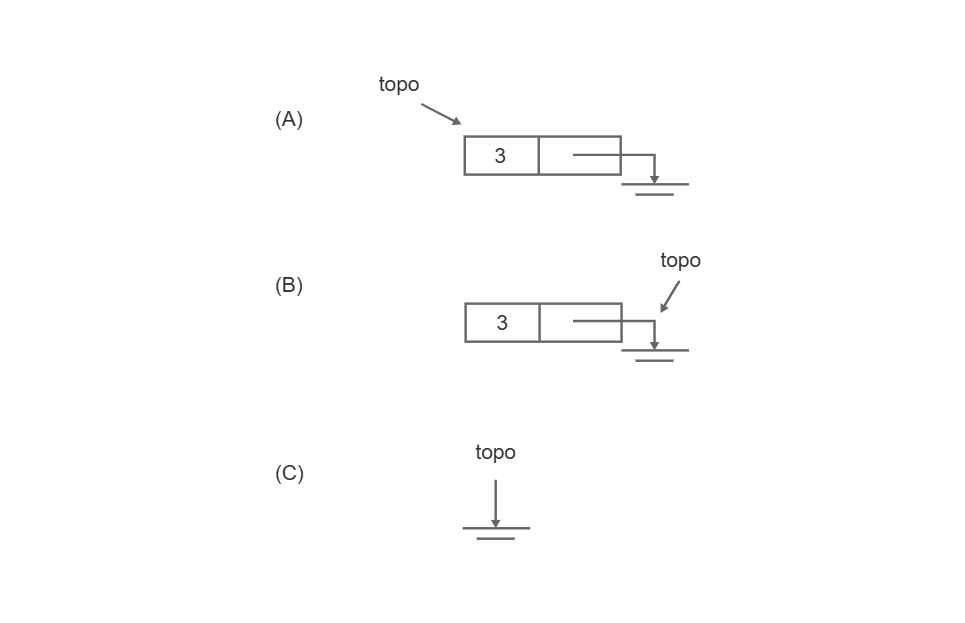
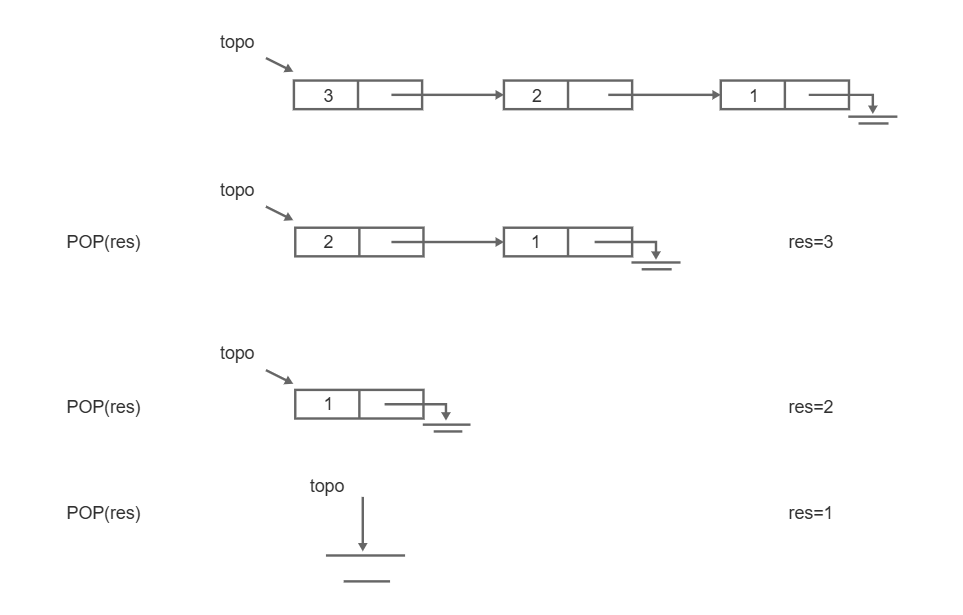
cap-8 [feat][docs] Anotações de Pilha Encadeada

diff --git a/README.md b/README.md
@@ -786,15 +786,197 @@ Supondo a pilha que foi gerada na explicação da operação PUSH (que terminou 
 
 3. Com a liberação da área do nó com dado 3, a configuração final da pilha é que topo aponta para NULO
 
-![alt text](image.png)
+![Esquema de retirada do nó que está no topo com a operação POP() pilha encadeada](img/img21.png)
 
 <p align="right">(<a href="#readme-top">back to top</a>)</p>
 
 ## Implementação em Java da Pilha de Inteiros
 
+```java
+import java.util.*;
+
+public class Pilha_INT {
+
+    //definição do NO
+    private static class NO{
+        public  int dado;
+        public  NO prox;
+    }
+
+    //definição do retornos dos métodos POP e TOP
+    private static class Retorno{
+        public  int item;
+        public  boolean ok;
+    }
+    //definição do ponteiro topo da pilha	
+    private static NO topo;
+
+    public void INIT() {
+        topo = null;
+    }
+
+    public boolean IsEmpty() {
+        return topo == null;
+    }
+
+    public void PUSH(int item) {
+        NO novo = new NO();
+        novo.dado = item;
+        novo.prox = topo;
+        topo = novo;
+    }
+
+    public Retorno POP() {
+        Retorno saida = new Retorno();
+        
+        if(!IsEmpty()) {
+            saida.item = topo.dado;
+            topo = topo.prox;
+            saida.ok = true;
+        } else {
+            saida.ok = false;
+        }
+
+        return saida;
+    }
+
+    public Retorno TOP() {
+        Retorno saida = new Retorno();
+
+        if(!IsEmpty()) {
+            saida.item = topo.dado;
+            saida.ok = true;
+        } else {
+            saida.ok = false;
+        }
+
+        return saida;
+    }
+
+    //Função main que exemplifica a utilização das operações sobre pilha
+    public static void main(String[] args) {
+            
+        Pilha_INT s = new Pilha_INT();
+        Scanner entrada = new Scanner(System.in);
+
+        //Declaração de variáveis necessárias para usar métodos da Pilha_INT
+        int item ;
+        int opcao;
+        Retorno res = new Retorno();
+
+        //inicia a pilha fazendo topo = null
+        s.INIT();	
+        
+        //invoca metodo TOP para obter dado do nó do topo da pilha
+        res = s.TOP();
+        if (res.ok) {
+            System.out.println("Execução do TOP: "+  res.item);
+
+        } else {
+            System.out.println("Execução do TOP: pilha VAZIA");
+        }
+
+        //repetição para inserir elementos na pilha
+        do { 
+            System.out.println("Digite valor inteiro para dado  ");
+            
+            item= entrada.nextInt();
+            
+            s.PUSH(item);
+            
+            System.out.println("Digite 0 para encerrar empilhamento de dados  ");
+            
+            opcao=entrada.nextInt();
+        } while (opcao != 0);
+        
+        //invoca metodo TOP para obter dado do nó do topo da pilha		
+        res = s.TOP();
+
+        if (res.ok) {
+            System.out.println("Execução do TOP: " + res.item);
+        }
+            
+        //repetição para retirar e apresentar todos elementos da pilha	
+        do {
+            res = s.POP();
+        
+            if (res.ok) {
+                System.out.println("Dado retirado: " + res.item);	
+            }
+        } while (res.ok);
+
+        entrada.close();
+    }
+}
+```
+
+Na main() é possível notar que foi necessário declarar algumas variáveis que são necessárias para utilização dos métodos. A única que merece comentário é a *res*, como os métodos TOP() e POP() podem ser invocados quando a pilha está vazia e se isso acontecer não há dado para ser retornado, torna-se preciso que, não apenas o valor do dado retorne, mas também se a operação foi um sucesso ou não. Assim, se  a pilha não está vazia, o dado pode ser retornado e está tudo ok (*true* - é verdade que a operção foi um sucesso). Portanto, o tipo de retorno dos métodos TOP() e POP() foi alterado para o tipo Retorno, pois assim o dado e a situação OK ou não são retornados juntos.
+
+A pilha incia sendo colocada no estado "vazia" usando o método **INIT()**.
+
+Logo após, foi feita a invocação do método **TOP(res)** e como a pilha está vazia é retornado o valor de OK é false, uma vez que não há nó inserido na pilha.
+
+No programa os dados são inseridos na pilha fazendo uso de uma repetição que lê do teclado o valor da variável item e depois invoca o método **PUSH(item)** para inserir novo nó tendo o valor de item como campo dado.
+
+![Esquema de loop para inserção do dado pelo PUSH(I) na pilha encadeada](img/img22.png)
+
+Continuando a execução do programa, mais uma vez é feita a invocação do método **TOP(res)**, só que desta vez a pilha não está vazia. Desta forma, o atributo ok de *res* recebe o valor *true* e assim o valor do dado que está no topo da pilha é apresentado na tela de saída (*res.item*).
+
+Finalmente, o programa termina com a retirada de todos os nós da pilha e apresentação dos dados contidos em cada nó. Para realizar essa etapa, mais uma vez foi utilizado res que recebe do método **POP(res)** os valores para os atributos ok (*true* no caso da pilha não vazia e nó removido e *false* caso contrário) e item que terá apenas valor válido (valor do dado que está no topo da pilha) no caso de ok = true.. Sendo assim, a repetição fará com que POP seja executado até o momento em que a pilha estiver vazia.
+
+![Esquema do loop para remoção de elemento pelo POP() na pilha encadeada](image.png)
+
 <p align="right">(<a href="#readme-top">back to top</a>)</p>
 
 ## Exemplo de Uso do Tipo de Dado Pilha
+
+Suponha o seguinte problema: a conversão de um número representado em decimal em binário. Apenas para recordar como essa conversão é feita, suponha o valor 9 em decimal:
+
+> 13/2 = 6 resto 1
+> 6/2 = 3 resto 0
+> 3/2 = 1 resto 1
+> 1/2 = 0 resto 1
+
+O valor na base 2 é obtido escrevendo o resto na ordem inversa em que foram obtidos, assim, o valor 9 em decimal é 1001 em binário. (1x2³ + 0x2² + 0x2¹ + 1x2⁰ = 8 + 0 + 0 + 1 = 9).
+
+Para resolver o probelam, basta lembrar do funcionamento da pilha, que inverte a ordem em que os elementos foram inseridos. Desta forma, cada resto obtido é inserido na pilha e, quando a divisão obter resultado da parte inteira 0, basta desempilhar todos os elementos da pilha.
+
+```java
+public static void main(String[] args) {
+  
+    Pilha_INT s = new Pilha_INT();
+    Retorno res = new Retorno();
+    Scanner entrada = new Scanner(System.in);
+    int resto, num;
+
+    //inicia a pilha fazendo topo = null
+    s.INIT();	
+
+    System.out.print("Digite valor número na base 10: ");
+    num = entrada.nextInt();
+
+    // fazendo divisões sucessivas e empilhando os valores do
+    // resto até que num seja zero	
+    while (num > 0) {
+        resto = num % 2;
+        s.PUSH(resto);
+        num = num/2;
+    }
+
+    /* escrevendo o resto na ordem inversa que foram obtidos           
+    usando a propriedade LIFO da pilha*/
+    System.out.println("Numero em binario: ");
+    
+    do {
+        res = s.POP();
+        if (res.ok) {
+            System.out.print(" "+ res.item);	
+        }
+    } while (res.ok);
+    
+    entrada.close();
+}
+```
 
 <p align="right">(<a href="#readme-top">back to top</a>)</p>
 
